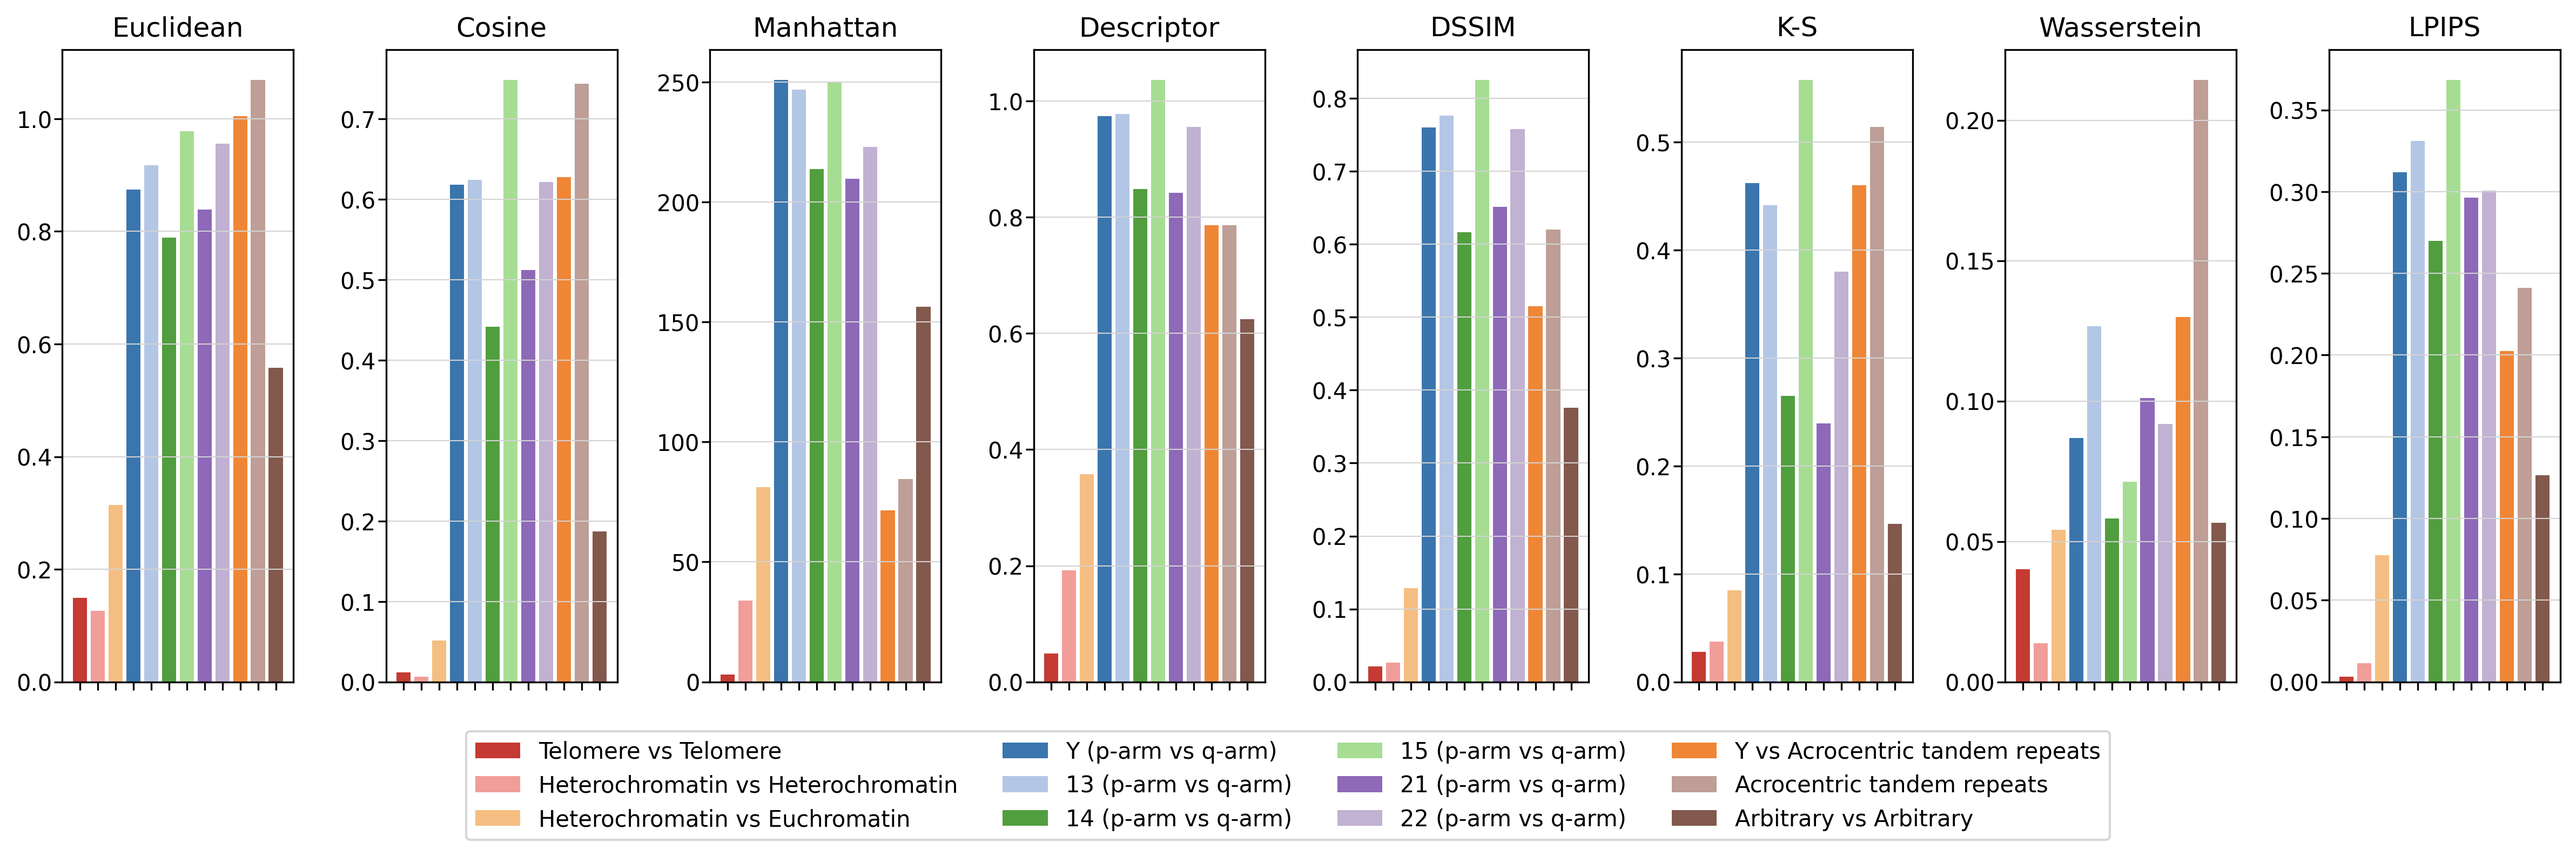
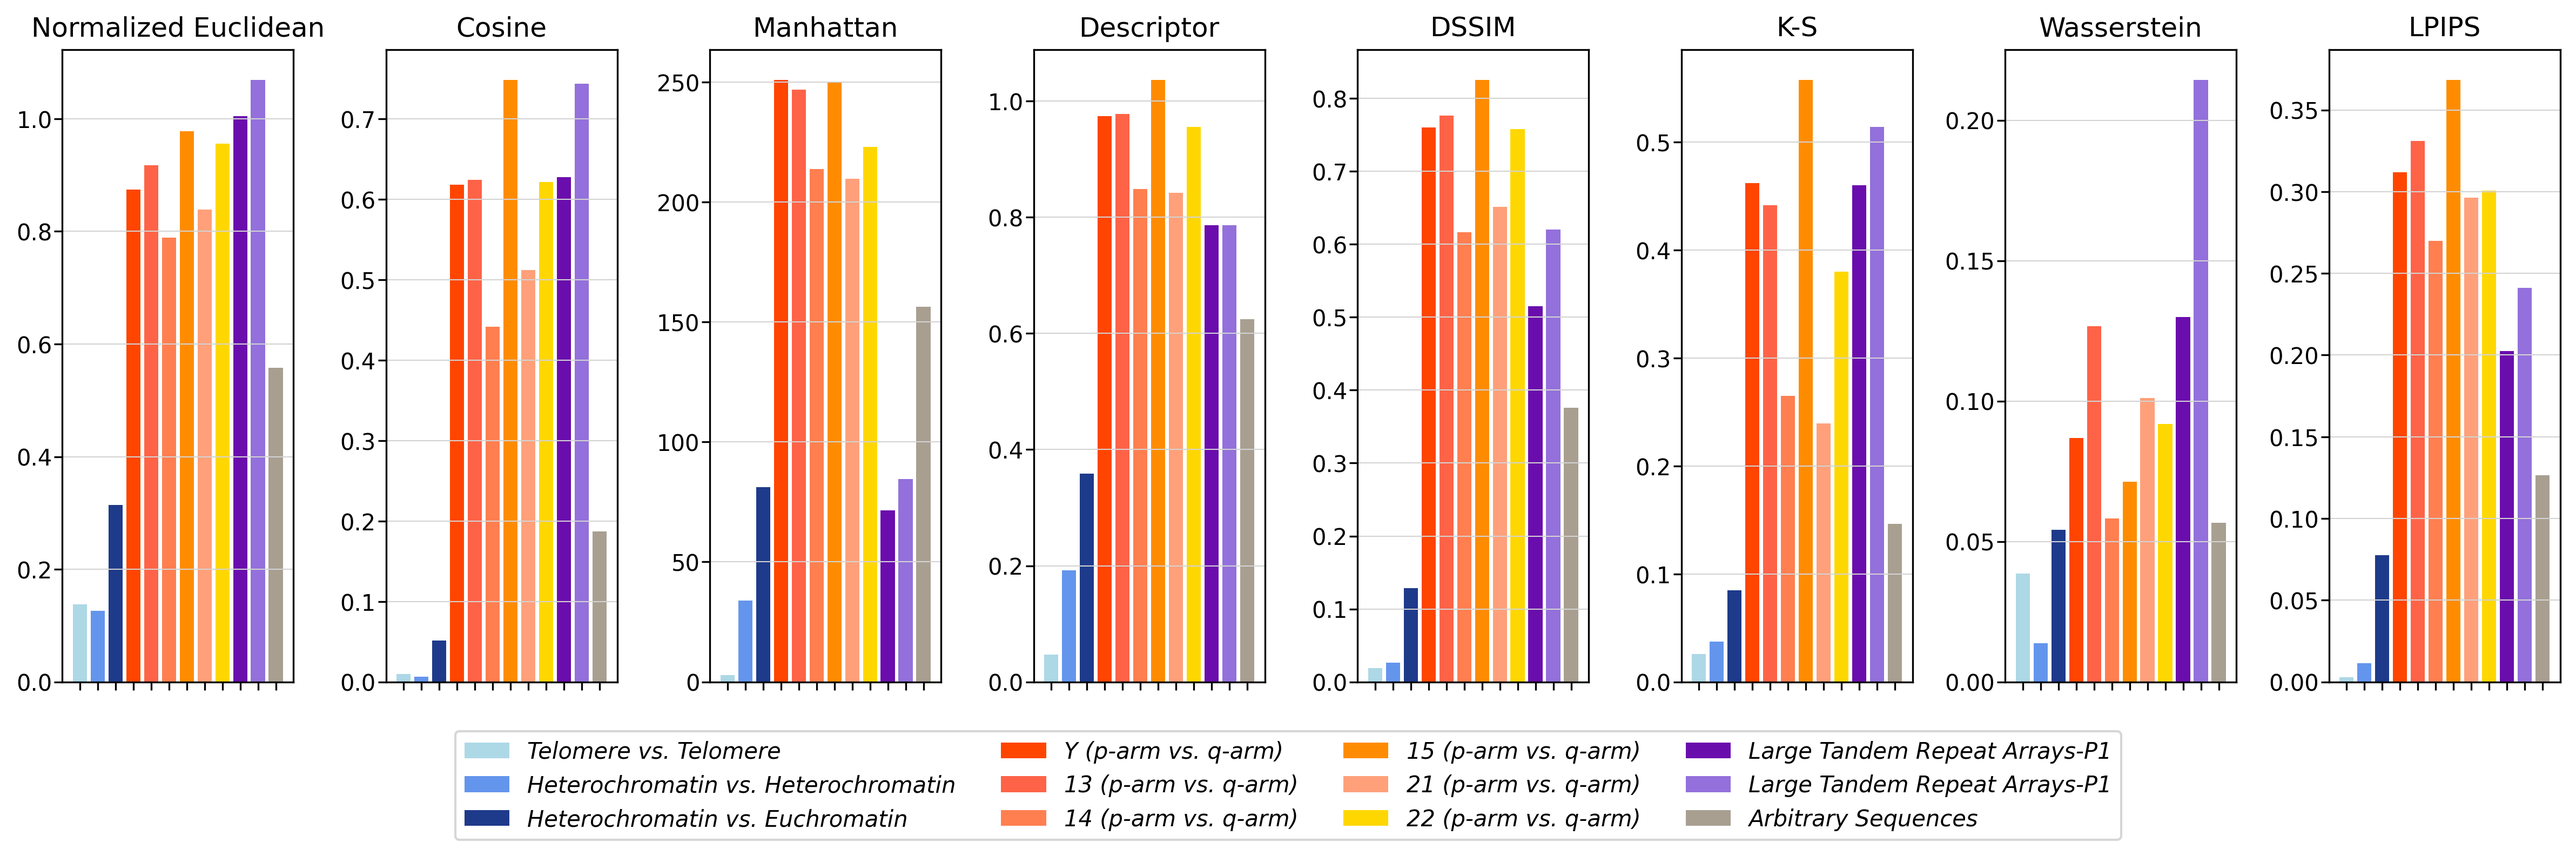
Small changes for running some experiments, also removed the reverse complement file.

diff --git a/representative_selection.py b/representative_selection.py
@@ -123,13 +123,9 @@ class ChromosomeRepresentativeSelection:
 
         return distance_from_representative
 
-    def get_approximation_error(self, chromosome_name):
+    def get_approximation_error(self, chromosome_name, random_outliers=True):
         representative = self.get_representative(chromosome_name)
         distances_from_representative = self.get_distance_from_representative(chromosome_name, representative)
-
-        random_representative = self.get_random_representative(chromosome_name)
-        distances_from_random_representative = \
-            self.get_distance_from_representative(chromosome_name, random_representative)
 
         approximative_representative = self.get_approximate_representative(chromosome_name)
         distances_from_approximative_representative = \
@@ -138,12 +134,20 @@ class ChromosomeRepresentativeSelection:
         approximation_error = np.mean(
             np.abs((distances_from_approximative_representative - distances_from_representative)))
         # np.sqrt(np.mean((distances_from_approximative_representative - distances_from_representative) ** 2))
-        random_error = np.mean(
-            np.abs((distances_from_random_representative - distances_from_representative)))
-        # np.sqrt(np.mean((distances_from_random_representative - distances_from_representative) ** 2))
 
         print(f"Approximation error: {approximation_error}")
-        print(f"Random error: {random_error}")
+
+        random_error = None
+        if random_outliers:
+            random_representative = self.get_random_representative(chromosome_name)
+            distances_from_random_representative = \
+                self.get_distance_from_representative(chromosome_name, random_representative)
+            random_error = np.mean(
+                np.abs((distances_from_random_representative - distances_from_representative)))
+            # np.sqrt(np.mean((distances_from_random_representative - distances_from_representative) ** 2))
+            print(f"Random error: {random_error}")
+
+        return distances_from_representative, approximation_error, random_error
 
     def plot_distance_variations(self, chromosome_name, plot_random_outliers=True, plot_approximate=True, x_range=None):
         figure_path = os.path.join('Figures', 'Representative', self.specie, 'Different_centroids')
@@ -336,15 +340,26 @@ class ChromosomeRepresentativeSelection:
 
 
 if __name__ == '__main__':
-    # representative = ChromosomeRepresentativeSelection('Dictyostelium discoideum', 6, 'DSSIM', segment_length=500_000)
+    representative = ChromosomeRepresentativeSelection('Dictyostelium discoideum', 6, 'DSSIM', segment_length=500_000)
+    x_r = 1  # math.ceil(ChromosomesHolder('Maize').get_largest_chromosome_length() / 500_000 / 20)
     # representative.plot_distance_variations("Whole Genome", plot_random_outliers=False)
-    # for chr_name in representative.chromosomes_holder.get_all_chromosomes_name():
-    #     representative.plot_distance_variations(chr_name, plot_random_outliers=False, x_range=1)
-    #     representative.get_approximation_error(chr_name)
+    segment_length, threshold_list, apx_list, rand_list = [], [], [], []
+    for chr_name in ["Whole Genome"]:  # representative.chromosomes_holder.get_all_chromosomes_name():
+        representative.plot_distance_variations(chr_name, x_range=x_r, plot_random_outliers=False)
+        dist_list, apx, rand = representative.get_approximation_error(chr_name, random_outliers=False)
+        threshold_list.append(np.sum(dist_list < 0.24))
+        segment_length.append(len(dist_list))
+        apx_list.append(apx)
+        # rand_list.append(rand)
 
-    chr_n = "21"
-    human_representative = ChromosomeRepresentativeSelection('Human', 9, 'DSSIM', segment_length=500_000)
-    segments_info = human_representative.get_non_overlapping_segments(chr_n)['segments_information']
-    RSSP = human_representative.get_representative(chr_n)['index']
-    ChromosomeRepresentativeSelection.plot_multi_dimensional_scaling(human_representative.get_distance_matrix(chr_n),
-                                                                     segments_info, RSSP, coloring_type='NCBI')
+    print(sum(threshold_list) / sum(segment_length))
+
+    print(f"Average approximation error: {np.mean(apx_list)}")
+    print(f"Average random error: {np.mean(rand_list)}")
+
+    # chr_n = "21"
+    # human_representative = ChromosomeRepresentativeSelection('Human', 9, 'DSSIM', segment_length=500_000)
+    # segments_info = human_representative.get_non_overlapping_segments(chr_n)['segments_information']
+    # RSSP = human_representative.get_representative(chr_n)['index']
+    # ChromosomeRepresentativeSelection.plot_multi_dimensional_scaling(human_representative.get_distance_matrix(chr_n),
+    #                                                                  segments_info, RSSP, coloring_type='NCBI')

diff --git a/chromosomes_holder.py b/chromosomes_holder.py
@@ -74,7 +74,7 @@ class ChromosomesHolder:
         return sum([len(self.get_chromosome_sequence(chromosome_name)) for chromosome_name in
                     natsorted(list(self._chromosomes_path.keys()))])
 
-    def get_chromosome_sequence(self, chromosome_name, apply_reverse_complement=True):
+    def get_chromosome_sequence(self, chromosome_name, apply_reverse_complement=False):
         if chromosome_name == "Whole Genome":
             all_chromosomes_sequence = ""
             for chromosome_name in self.get_all_chromosomes_name():
@@ -82,9 +82,6 @@ class ChromosomesHolder:
             return all_chromosomes_sequence
 
         if chromosome_name in self._chromosome_sequence_cache:
-            # if apply_reverse_complement and self.reverse_complement[chromosome_name]:
-            #     return self.get_reverse_complement(self._chromosome_sequence_cache[chromosome_name])
-            # else:
             return self._chromosome_sequence_cache[chromosome_name]
         sequence = ""
         chr_path = self._chromosomes_path[chromosome_name]
@@ -278,7 +275,7 @@ class ChromosomesHolder:
         return {'segments_sequences': segments_sequences, 'segments_information': segments_information}
 
     def plot_fcgr(self, chromosome_name, start_of_segment=None, segment_length=None, k_mer=9, fcgr_cgr='fcgr',
-                  label=True):
+                  label=True, global_min=None, global_max=None):
         chromosome_sequence = self.get_chromosome_sequence(chromosome_name)
         if start_of_segment is None:
             start_of_segment = 0
@@ -287,10 +284,15 @@ class ChromosomesHolder:
         segment_sequence = chromosome_sequence[start_of_segment:start_of_segment + segment_length]
         if fcgr_cgr == 'fcgr':
             fcgr = CGR(segment_sequence, k_mer).get_fcgr()
-            print(fcgr)
+            # print(fcgr)
         else:
             fcgr = CGR(segment_sequence, k_mer).get_cgr()
-        fcgr_image = CGR.array2img(fcgr, bits=8, resolution=RESOLUTION_DICT[k_mer])
+
+        # rescale_1, fcgr_image_1 = CGR.array2img(fcgr, bits=8, resolution=RESOLUTION_DICT[k_mer], return_array=True)
+        rescale_fcgr, _ = CGR.array2img(fcgr, bits=6, resolution=RESOLUTION_DICT[k_mer], m=global_min, M=global_max,
+                                        return_array=True)
+        rescale_2, fcgr_image = CGR.array2img(rescale_fcgr, bits=6, resolution=RESOLUTION_DICT[k_mer],
+                                              return_array=True)
         fcgr_pil = Image.fromarray(fcgr_image, 'L')
 
         plt.imshow(fcgr_pil, cmap="gray")
@@ -318,7 +320,7 @@ class ChromosomesHolder:
             f"{save_path}/chr_{chromosome_name}_range_{start_of_segment}_{start_of_segment + segment_length}_"
             f"{k_mer}kmer.png",
             dpi=300, bbox_inches='tight', transparent=True)
-        plt.show()
+        # plt.show()
         plt.close()
 
     def find_n_counts(self):
@@ -473,17 +475,37 @@ class ChromosomesHolder:
 
 
 if __name__ == '__main__':
-    specie = "Human"
+    specie = "Maize"
     genome = ChromosomesHolder(specie)
-    genome.plot_fcgr("21", k_mer=9, fcgr_cgr='fcgr', label=True)
+    # genome.plot_fcgr("21", k_mer=9, fcgr_cgr='fcgr', label=True)
 
+    '''FCGR global min and max test'''
+    # global_m = np.inf
+    # global_M = 0
+    # for chr_name in tqdm(genome.get_all_chromosomes_name()):
+    #     seq = genome.get_chromosome_sequence(chr_name)
+    #     fcgr = CGR(seq, k_mer=9).get_fcgr()
+    #     m, M = fcgr.min(), fcgr.max()
+    #     global_m = min(global_m, m)
+    #     global_M = max(global_M, M)
+    # print(global_m, global_M)  # 0 1134132 human / 21 246147 maize
+
+    global_m = 21
+    global_M = 246147
+    for chr_name in tqdm(genome.get_all_chromosomes_name()):
+        genome.plot_fcgr(chr_name, k_mer=9, fcgr_cgr='fcgr', label=True, global_min=global_m, global_max=global_M)
+
+    '''Genome length test'''
     # l_so_far = 0
-    # for chr_name in genome.get_all_chromosomes_name():
-    #     # print(chr_name)
-    #     l = len(genome.get_chromosome_sequence(chr_name))
+    # lengths = []
+    # for chr_name in tqdm(genome.get_all_chromosomes_name()):
+    #     seq = genome.get_chromosome_sequence(chr_name)
+    #     l = len(seq)
+    #     lengths.append(l)
     #     print(f"chr {chr_name} length = ", l)
     #     l_so_far += l
-    #     print(l_so_far)
-    #     # segment_dict = genome.get_random_segment(1_000_000, chr_name, return_dict=True)
-    #     # start_of_segment = segment_dict['start'], segment_length = 1_000_000,
-    #     genome.plot_fcgr(chr_name, k_mer=9)
+    #     # print("Length so far is: ", l_so_far)
+    # print("Total length: ", sum(lengths))
+    # print("Max length: ", max(lengths))
+    # print("Min length: ", min(lengths))
+    # print("Mean length: ", np.mean(lengths))

diff --git a/intragenomic_analysis.py b/intragenomic_analysis.py
@@ -3,6 +3,7 @@ import random
 import pandas as pd
 import numpy as np
 from matplotlib import pyplot as plt
+from matplotlib.font_manager import FontProperties
 from tqdm import tqdm
 
 from chromosomes_holder import ChromosomesHolder
@@ -137,11 +138,11 @@ class IntraGenomicAnalysis:
         if not os.path.exists(experiment_path):
             new_run = True
         if new_run:
-            experiments_list = ['Telomere vs Telomere', 'Heterochromatin vs Heterochromatin',
-                                'Heterochromatin vs Euchromatin', 'Y (p-arm vs q-arm)', '13 (p-arm vs q-arm)',
-                                '14 (p-arm vs q-arm)', '15 (p-arm vs q-arm)', '21 (p-arm vs q-arm)',
-                                '22 (p-arm vs q-arm)', 'Y vs Acrocentric tandem repeats',
-                                'Acrocentric tandem repeats', 'Arbitrary vs Arbitrary']
+            experiments_list = ['Telomere vs. Telomere', 'Heterochromatin vs. Heterochromatin',
+                                'Heterochromatin vs. Euchromatin', 'Y (p-arm vs. q-arm)', '13 (p-arm vs. q-arm)',
+                                '14 (p-arm vs. q-arm)', '15 (p-arm vs. q-arm)', '21 (p-arm vs. q-arm)',
+                                '22 (p-arm vs. q-arm)', 'Large Tandem Repeat Arrays-P1',
+                                'Large Tandem Repeat Arrays-P1', 'Arbitrary Sequences']
 
             df = pd.DataFrame({'Experiment': experiments_list})
 
@@ -180,20 +181,35 @@ class IntraGenomicAnalysis:
         fig, axes = plt.subplots(1, len(data), figsize=(16, 5))
 
         # colors = plt.cm.tab20.colors
-        colors = ['#C53A33',
-                  '#F19D99',
-                  '#F5BE82',
+        # colors = ['#C53A33',
+        #           '#F19D99',
+        #           '#F5BE82',
+        #
+        #           '#3A75AE',
+        #           '#B3C6E5',
+        #           '#519E3E',
+        #           '#A7DD93',
+        #           '#8D69B8',
+        #           '#C1B1D2',
+        #
+        #           '#EF8636',
+        #           '#BE9E96',
+        #           '#83584D']
 
-                  '#3A75AE',
-                  '#B3C6E5',
-                  '#519E3E',
-                  '#A7DD93',
-                  '#8D69B8',
-                  '#C1B1D2',
+        colors = ['#ADD8E6',
+                  '#6495ED',
+                  '#1E3A8A',
 
-                  '#EF8636',
-                  '#BE9E96',
-                  '#83584D']
+                  '#FF4500',
+                  '#FF6347',
+                  '#FF7F50',
+                  '#FF8C00',
+                  '#FFA07A',
+                  '#FFD700',
+
+                  '#6A0DAD',
+                  '#9370DB',
+                  '#A89F91']
 
         for i, ax in enumerate(axes):
             for j in range(len(experiments)):
@@ -205,16 +221,18 @@ class IntraGenomicAnalysis:
             ax.tick_params(axis='y', pad=1)  # labelsize=8,
 
         handles, labels = axes[0].get_legend_handles_labels()
-        fig.legend(handles, labels, loc='upper center', ncol=4, bbox_to_anchor=(0.5, 0.1))
+
+        fig.legend(handles, labels, loc='upper center', ncol=4, bbox_to_anchor=(0.5, 0.1),
+                   prop=FontProperties(style='italic'))
 
         plt.tight_layout(rect=[0, 0.1, 1, 1])
         plt.subplots_adjust(wspace=0.4)
 
-        plt.savefig(f"{save_path}/intragenomic_analysis.png", dpi=300, bbox_inches='tight')  # , transparent=True)
+        plt.savefig(f"{save_path}/intragenomic_analysis.png", dpi=300, bbox_inches='tight', transparent=True)
         # plt.show()
 
 
 if __name__ == '__main__':
-    intragenome = IntraGenomicAnalysis('human', kmer=6)
+    intragenome = IntraGenomicAnalysis('Human', kmer=6)
     dataframe = intragenome.run_experiment(new_run=False)
     intragenome.plot_intragenomic_analysis(dataframe)

diff --git a/intergenomic_analysis.py b/intergenomic_analysis.py
@@ -5,6 +5,7 @@ import numpy as np
 import pandas as pd
 from matplotlib import pyplot as plt
 import seaborn as sns
+from scipy.stats import wilcoxon
 from tqdm import tqdm
 
 from chaos_game_representation import CGR
@@ -95,6 +96,16 @@ class InterGenomicAnalysis:
                 for cat in categories:
                     group = exploded_df[exploded_df['Category'].replace(SCIENTIFIC_NAMES) == cat]
                     distance_data_dict[cat] = list(group['Distance_Values'])
+
+                # Wilcoxon rank-sum test
+                print(f"----------------------------{distance_m}-------------------------------------")
+                reference_array = distance_data_dict['H. sapiens']
+                for keys in distance_data_dict.keys():
+                    if keys == 'H. sapiens':
+                        continue
+                    print(f"Wilcoxon rank-sum test between Human and {keys}:")
+                    res = wilcoxon(reference_array, distance_data_dict[keys])
+                    print(res)
 
                 # Prepare the data for the boxplot
                 distance_data = [np.array(distance_data_dict[cat]) for cat in categories if cat in distance_data_dict]

diff --git a/constants.py b/constants.py
@@ -92,7 +92,5 @@ GENOME_LENGTH = {"Human": 3117000000,
 REVERSE_SCIENTIFIC_NAMES = {v: k for k, v in SCIENTIFIC_NAMES.items()}
 
 RESOLUTION_DICT = {2: 2, 3: 2, 4: 2, 5: 2, 6: 2, 7: 2, 8: 4, 9: 4, 10: 4, 11: 4, 12: 4}
-
-# REVERSE_COMP = {"1": False, "2": False, "3": True, "4": True, "5": True, "6": True, "7": True, "8": True, "9": True,
-#                 "10": True, "11": False, "12": False, "13": False, "14": False, "15": False, "16": False, "17": False,
-#                 "18": False, "19": False, "20": False, "21": False, "22": False, "X": False, "Y": False}
+BITS_DICT = {"Human": 8, "Chimp": 8, "Mouse": 8, "Insect": 8, "Fungus": 8, "Plant": 8, "Protist": 8, "Archaea": 8,
+             "Bacteria": 8, "Maize": 6, "Dictyostelium discoideum": 8, "Aspergillus terreus": 8}

diff --git a/chaos_game_representation.py b/chaos_game_representation.py
@@ -100,8 +100,9 @@ class CGR:
         return matrix
 
     @staticmethod
-    def array2img(array, bits=8, resolution=4):
-        m, M = array.min(), array.max()
+    def array2img(array, bits=8, resolution=4, m=None, M=None, return_array=False):
+        if m is None and M is None:
+            m, M = array.min(), array.max()
         # rescale to [0,1]
         img_rescaled = (array - m) / (M - m)
 
@@ -115,4 +116,6 @@ class CGR:
             dtype = np.uint8
         img_array = np.array(img_array, dtype=dtype)
 
+        if return_array:
+            return img_rescaled, img_array
         return img_array
